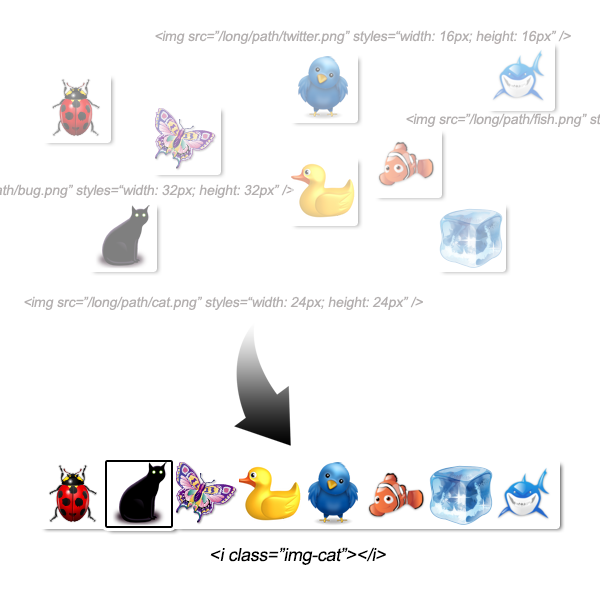
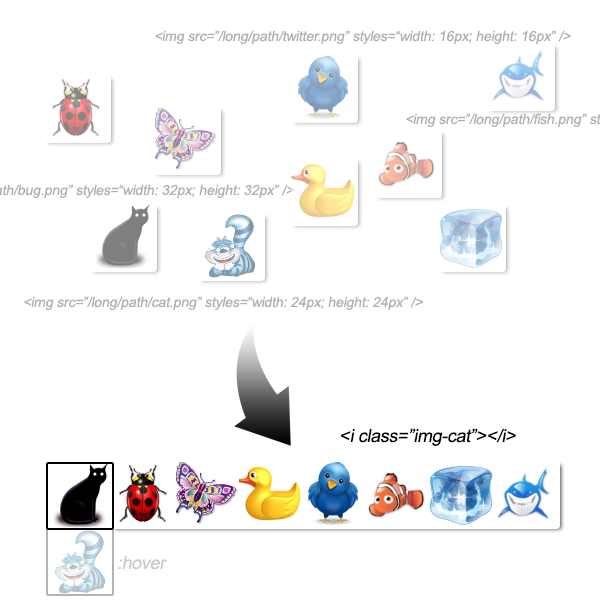
# Implemented auto hover support

diff --git a/lib/YiiBootstrapCssSprite.php b/lib/YiiBootstrapCssSprite.php
@@ -9,7 +9,7 @@
  * to creates CSS file call generate() method.
  *
  * @author Oleg Poludnenko <oleg@poludnenko.info>
- * @version 0.5.3
+ * @version 0.6.0
  */
 class YiiBootstrapCssSprite extends CApplicationComponent
 {
@@ -20,6 +20,11 @@ class YiiBootstrapCssSprite extends CApplicationComponent
     const ERROR_NO_SOURCE_IMAGES    = 'no-source-images';
     const ERROR_WRONG_IMAGE_FORMAT  = 'wrong-image-format';
     const ERROR_UNKNOWN_IMAGE_EXT   = 'unknown-image-ext';
+
+    /**
+     * Hover word (file suffix and CSS prefix)
+     */
+    const HOVER_WORD = 'hover';
 
     /**
      * Path to source images
@@ -49,7 +54,7 @@ class YiiBootstrapCssSprite extends CApplicationComponent
      * Namespace (prefix) for CSS classes
      * @var string
      */
-    public $cssNamespace = 'img-';
+    public $cssNamespace = 'img';
 
     /**
      * Result image URL in the CSS file
@@ -74,12 +79,12 @@ class YiiBootstrapCssSprite extends CApplicationComponent
         $this->_errors = array();
 
         // Get list of images
-        $fillImgList = function($dir) use(&$self, &$imgList, &$imgWidth, &$imgHeight, &$fillImgList) {
+        $fillImgList = function($dir) use(&$self, &$xOffset, &$imgList, &$imgWidth, &$imgHeight, &$fillImgList) {
             $imageList = glob($dir . DIRECTORY_SEPARATOR . '*.{' . $self->imgSourceExt . '}', GLOB_BRACE);
             foreach ($imageList as $imagePath) {
                 $imageSize = @getimagesize($imagePath);
                 if ($imageSize === false) {
-                    $self->addError(BootstrapCssSprite::ERROR_WRONG_IMAGE_FORMAT, $imagePath);
+                    $self->addError($self::ERROR_WRONG_IMAGE_FORMAT, $imagePath);
                     continue;
                 } else {
                     list($itemWidth, $itemHeight, $itemType) = $imageSize;
@@ -88,17 +93,22 @@ class YiiBootstrapCssSprite extends CApplicationComponent
                 if ($itemHeight > $imgHeight) {
                     $imgHeight = $itemHeight;
                 }
+
                 $imgList[$imagePath] = array(
-                    'width'  => $itemWidth,
-                    'height' => $itemHeight,
-                    'ext'    => image_type_to_extension($itemType, false),
+                    'width'     => $itemWidth,
+                    'height'    => $itemHeight,
+                    'x'         => $xOffset,
+                    'ext'       => image_type_to_extension($itemType, false),
                 );
+
+                $xOffset += $itemWidth;
             }
             $subdirList = glob($dir . DIRECTORY_SEPARATOR . '*', GLOB_ONLYDIR);
             foreach ($subdirList as $subdir) {
                 $fillImgList($subdir);
             }
         };
+        $xOffset = 0;
         $imgList = array();
         $imgWidth = $imgHeight = 0;
         $fillImgList($this->imgSourcePath);
@@ -117,8 +127,8 @@ class YiiBootstrapCssSprite extends CApplicationComponent
         $cssList = array();
         $cssList[] = array(
             'selectors' => array(
-                '[class^="' . $this->cssNamespace . '"]',
-                '[class*=" ' . $this->cssNamespace . '"]',
+                '[class^="' . $this->cssNamespace . '-"]',
+                '[class*=" ' . $this->cssNamespace . '-"]',
             ),
             'styles' => array(
                 'background-image'      => 'url("' . $this->cssImgUrl . '")',
@@ -133,7 +143,6 @@ class YiiBootstrapCssSprite extends CApplicationComponent
 
         // Copy all images, create CSS file and list of tags
         $tagList = array();
-        $destX = 0;
         foreach ($imgList as $imgPath => $imgData) {
 
             // Copy image
@@ -144,28 +153,56 @@ class YiiBootstrapCssSprite extends CApplicationComponent
             $src = $imgCreateFunc($imgPath);
             imagealphablending($src, true);
             imagesavealpha($src, true);
-            imagecopy($dest, $src, $destX, 0, 0, 0, $imgData['width'], $imgData['height']);
+            imagecopy($dest, $src, $imgData['x'], 0, 0, 0, $imgData['width'], $imgData['height']);
             imagedestroy($src);
 
-            // Append CSS
+            // Append CSS (if not a hover)
             $sourcePathLeng = mb_strlen($this->imgSourcePath);
-            $class = '.' . $this->cssNamespace . mb_substr($imgPath, $sourcePathLeng + 1);
+            $class = '.' . $this->cssNamespace . '-' . mb_substr($imgPath, $sourcePathLeng + 1);
             $class = mb_substr($class, 0, mb_strlen($class) - mb_strlen($imgData['ext']) - 1);
             $class = str_replace(DIRECTORY_SEPARATOR, '-', $class);
-            $cssList[] = array(
-                'selectors' => array($class),
-                'styles' => array(
-                    'background-position'   => '-' . $destX . 'px 0',
-                    'height'                => $imgData['height'] . 'px',
-                    'width'                 => $imgData['width'] . 'px',
-                ),
-            );
+            $isHover = (mb_substr($class, -mb_strlen('.' . static::HOVER_WORD)) === '.' . static::HOVER_WORD);
+            if (!$isHover) {
+                $cssList[] = array(
+                    'selectors' => array($class),
+                    'styles' => array(
+                        'background-position'   => '-' . $imgData['x'] . 'px 0',
+                        'height'                => $imgData['height'] . 'px',
+                        'width'                 => $imgData['width'] . 'px',
+                    ),
+                );
+            }
+
+            // Check if image has hover
+            if (!$isHover) {
+                $extPos = mb_strrpos($imgPath, $imgData['ext']);
+                if ($extPos !== false) {
+                    $hoverPath = substr_replace($imgPath, static::HOVER_WORD . '.' . $imgData['ext'], $extPos, strlen($imgData['ext']));
+                    $hasHover = isset($imgList[$hoverPath]);
+                } else {
+                    $hasHover = false;
+                }
+                if ($hasHover) {
+                    $hoverData = $imgList[$hoverPath];
+                    $cssList[] = array(
+                        'selectors' => array(
+                            "{$class}:hover",
+                            "{$class}.hover",
+                            ".hover-{$this->cssNamespace}:hover {$class}",
+                        ),
+                        'styles' => array(
+                            'background-position'   => '-' . $hoverData['x'] . 'px 0',
+                            'height'                => $hoverData['height'] . 'px',
+                            'width'                 => $hoverData['width'] . 'px',
+                        ),
+                    );
+                }
+            }
 
             // Append tag
-            $tagList[] = '<i class="' . mb_substr($class, 1) . '"></i>';
-
-            // Next position
-            $destX += $imgData['width'];
+            if (!$isHover) {
+                $tagList[] = '<i class="' . mb_substr($class, 1) . '"></i>';
+            }
         }
 
         // Save image to file

diff --git a/lib/BootstrapCssSprite.php b/lib/BootstrapCssSprite.php
@@ -9,7 +9,7 @@
  * to creates CSS file call generate() method.
  *
  * @author Oleg Poludnenko <oleg@poludnenko.info>
- * @version 0.5.3
+ * @version 0.6.0
  */
 class BootstrapCssSprite
 {
@@ -20,6 +20,11 @@ class BootstrapCssSprite
     const ERROR_NO_SOURCE_IMAGES    = 'no-source-images';
     const ERROR_WRONG_IMAGE_FORMAT  = 'wrong-image-format';
     const ERROR_UNKNOWN_IMAGE_EXT   = 'unknown-image-ext';
+
+    /**
+     * Hover word (file suffix and CSS prefix)
+     */
+    const HOVER_WORD = 'hover';
 
     /**
      * Path to source images
@@ -49,7 +54,7 @@ class BootstrapCssSprite
      * Namespace (prefix) for CSS classes
      * @var string
      */
-    public $cssNamespace = 'img-';
+    public $cssNamespace = 'img';
 
     /**
      * Result image URL in the CSS file
@@ -89,12 +94,12 @@ class BootstrapCssSprite
         $this->_errors = array();
 
         // Get list of images
-        $fillImgList = function($dir) use(&$self, &$imgList, &$imgWidth, &$imgHeight, &$fillImgList) {
+        $fillImgList = function($dir) use(&$self, &$xOffset, &$imgList, &$imgWidth, &$imgHeight, &$fillImgList) {
             $imageList = glob($dir . DIRECTORY_SEPARATOR . '*.{' . $self->imgSourceExt . '}', GLOB_BRACE);
             foreach ($imageList as $imagePath) {
                 $imageSize = @getimagesize($imagePath);
                 if ($imageSize === false) {
-                    $self->addError(BootstrapCssSprite::ERROR_WRONG_IMAGE_FORMAT, $imagePath);
+                    $self->addError($self::ERROR_WRONG_IMAGE_FORMAT, $imagePath);
                     continue;
                 } else {
                     list($itemWidth, $itemHeight, $itemType) = $imageSize;
@@ -103,17 +108,22 @@ class BootstrapCssSprite
                 if ($itemHeight > $imgHeight) {
                     $imgHeight = $itemHeight;
                 }
+
                 $imgList[$imagePath] = array(
-                    'width'  => $itemWidth,
-                    'height' => $itemHeight,
-                    'ext'    => image_type_to_extension($itemType, false),
+                    'width'     => $itemWidth,
+                    'height'    => $itemHeight,
+                    'x'         => $xOffset,
+                    'ext'       => image_type_to_extension($itemType, false),
                 );
+
+                $xOffset += $itemWidth;
             }
             $subdirList = glob($dir . DIRECTORY_SEPARATOR . '*', GLOB_ONLYDIR);
             foreach ($subdirList as $subdir) {
                 $fillImgList($subdir);
             }
         };
+        $xOffset = 0;
         $imgList = array();
         $imgWidth = $imgHeight = 0;
         $fillImgList($this->imgSourcePath);
@@ -132,8 +142,8 @@ class BootstrapCssSprite
         $cssList = array();
         $cssList[] = array(
             'selectors' => array(
-                '[class^="' . $this->cssNamespace . '"]',
-                '[class*=" ' . $this->cssNamespace . '"]',
+                '[class^="' . $this->cssNamespace . '-"]',
+                '[class*=" ' . $this->cssNamespace . '-"]',
             ),
             'styles' => array(
                 'background-image'      => 'url("' . $this->cssImgUrl . '")',
@@ -148,7 +158,6 @@ class BootstrapCssSprite
 
         // Copy all images, create CSS file and list of tags
         $tagList = array();
-        $destX = 0;
         foreach ($imgList as $imgPath => $imgData) {
 
             // Copy image
@@ -159,28 +168,56 @@ class BootstrapCssSprite
             $src = $imgCreateFunc($imgPath);
             imagealphablending($src, true);
             imagesavealpha($src, true);
-            imagecopy($dest, $src, $destX, 0, 0, 0, $imgData['width'], $imgData['height']);
+            imagecopy($dest, $src, $imgData['x'], 0, 0, 0, $imgData['width'], $imgData['height']);
             imagedestroy($src);
 
-            // Append CSS
+            // Append CSS (if not a hover)
             $sourcePathLeng = mb_strlen($this->imgSourcePath);
-            $class = '.' . $this->cssNamespace . mb_substr($imgPath, $sourcePathLeng + 1);
+            $class = '.' . $this->cssNamespace . '-' . mb_substr($imgPath, $sourcePathLeng + 1);
             $class = mb_substr($class, 0, mb_strlen($class) - mb_strlen($imgData['ext']) - 1);
             $class = str_replace(DIRECTORY_SEPARATOR, '-', $class);
-            $cssList[] = array(
-                'selectors' => array($class),
-                'styles' => array(
-                    'background-position'   => '-' . $destX . 'px 0',
-                    'height'                => $imgData['height'] . 'px',
-                    'width'                 => $imgData['width'] . 'px',
-                ),
-            );
+            $isHover = (mb_substr($class, -mb_strlen('.' . static::HOVER_WORD)) === '.' . static::HOVER_WORD);
+            if (!$isHover) {
+                $cssList[] = array(
+                    'selectors' => array($class),
+                    'styles' => array(
+                        'background-position'   => '-' . $imgData['x'] . 'px 0',
+                        'height'                => $imgData['height'] . 'px',
+                        'width'                 => $imgData['width'] . 'px',
+                    ),
+                );
+            }
+
+            // Check if image has hover
+            if (!$isHover) {
+                $extPos = mb_strrpos($imgPath, $imgData['ext']);
+                if ($extPos !== false) {
+                    $hoverPath = substr_replace($imgPath, static::HOVER_WORD . '.' . $imgData['ext'], $extPos, strlen($imgData['ext']));
+                    $hasHover = isset($imgList[$hoverPath]);
+                } else {
+                    $hasHover = false;
+                }
+                if ($hasHover) {
+                    $hoverData = $imgList[$hoverPath];
+                    $cssList[] = array(
+                        'selectors' => array(
+                            "{$class}:hover",
+                            "{$class}.hover",
+                            ".hover-{$this->cssNamespace}:hover {$class}",
+                        ),
+                        'styles' => array(
+                            'background-position'   => '-' . $hoverData['x'] . 'px 0',
+                            'height'                => $hoverData['height'] . 'px',
+                            'width'                 => $hoverData['width'] . 'px',
+                        ),
+                    );
+                }
+            }
 
             // Append tag
-            $tagList[] = '<i class="' . mb_substr($class, 1) . '"></i>';
-
-            // Next position
-            $destX += $imgData['width'];
+            if (!$isHover) {
+                $tagList[] = '<i class="' . mb_substr($class, 1) . '"></i>';
+            }
         }
 
         // Save image to file

diff --git a/example/sprite.example.php b/example/sprite.example.php
@@ -7,7 +7,7 @@ $sprite = new BootstrapCssSprite(array(
     'imgSourceExt'  => 'jpg,jpeg,gif,png',
     'imgDestPath'   => __DIR__ . '/images/sprite.png',
     'cssPath'       => __DIR__ . '/css/sprite.css',
-    'cssNamespace'  => 'img-',
+    'cssNamespace'  => 'img',
     'cssImgUrl'     => '../images/sprite.png',
 ));
 $tagList = $sprite->generate();
@@ -28,9 +28,10 @@ $tagList = $sprite->generate();
         <?php else: ?>
             <h2>Success!</h2>
             <?php foreach ($tagList as $tag): ?>
-                <?php echo $tag; ?>
-                <?php echo htmlentities($tag); ?>
-                <br />
+                <div class="hover-img">
+                    <?php echo $tag; ?>
+                    <?php echo htmlentities($tag); ?>
+                </div>
             <?php endforeach; ?>
         <?php endif; ?>
     </body>

diff --git a/README.md b/README.md
@@ -1,7 +1,7 @@
 ## Introduction
-<b>Bootstrap CSS Sprite</b> is a PHP library, which provides displaying of multiple images as a signle sprite in a Twitter Bootstrap style. 
-E.g. you have a set of images one of which is named <b>kitty.png</b>. 
-To display this image you can just use tag <b>&lt;i&gt;</b> with CSS class <b>img-kitty</b> as Twitter Bootstrap do: <code>&lt;i class="img-kitty"&gt;&lt;/i&gt;</code>.
+<b>Bootstrap CSS Sprite</b> is a PHP library, which provides displaying of multiple images as a signle sprite in a Twitter Bootstrap style.
+E.g. you have a set of images one of which is named <b>cat.png</b>.
+To display this image you can just use tag <b>&lt;i&gt;</b> with CSS class <b>img-cat</b> as Twitter Bootstrap do: <code>&lt;i class="img-cat"&gt;&lt;/i&gt;</code>.
 A nice bonus: the image's height and width are set automatically in CSS file.
 
 <p align="center">
@@ -13,7 +13,7 @@ A nice bonus: the image's height and width are set automatically in CSS file.
     <li>One image file instead one multiple: one request to server and less traffic.</li>
     <li>Image hover first time without blinking and "jumping".</li>
     <li>No need to define size for each image in HTML templates - library will do it for you in generated CSS file.</li>
-    <li>Less HTML code: <code>&lt;i class="img-kitty"&gt;&lt;/i&gt;</code> instead of <pre><code>&lt;img src="&lt;?=$this->theme->baseUrl?&gt;/images/kitty.png" style="width: 64px; height: 64px;" /&gt;</code></pre>
+    <li>Less HTML code: <code>&lt;i class="img-cat"&gt;&lt;/i&gt;</code> instead of <pre><code>&lt;img src="&lt;?=$this->theme->baseUrl?&gt;/images/cat.png" style="width: 64px; height: 64px;" /&gt;</code></pre>
     It really saves your time!</li>
 </ul>
 
@@ -27,7 +27,6 @@ The CSS file contains classes for all merged files. These classes define source 
     'imgSourceExt'  => 'jpg,jpeg,gif,png',
     'imgDestPath'   => './images/sprite.png',
     'cssPath'       => './css/sprite.css',
-    'cssNamespace'  => 'img-',
     'cssImgUrl'     => '../images/sprite.png',
 ));
 $sprite->generate();
@@ -42,12 +41,16 @@ It will look the same way for Yii component. Just copy <b>YiiBootstrapCssSprite.
         'imgSourceExt'  => 'jpg,jpeg,gif,png',
         'imgDestPath'   => '/path/to/images/sprite.png',
         'cssPath'       => '/path/to/css/sprite.css',
-        'cssNamespace'  => 'img-',
         'cssImgUrl'     => '/path/to/images/sprite.png',
     ),
     ...
 ));
 </code></pre>
+
+## :hover
+If you want your cat picture to be changed on mouse hover, you just need to put <b>cat.hover.png</b> image file near <b>cat.png</b>.
+In case when you need to change picture on mouse hover over parent element (not picture itself), you should add <b>hover-img</b> CSS-class to the element: <code>&lt;button class="btn hover-img"&gt;&lt;i class="img-cat"&gt;&lt;/i&gt; My Cat&lt;/button&gt;</code>.
+Also you can trigger hover event manually by adding <b>hover</b> CSS-class to your picture: <code>$('.img-cat').addClass('hover')</code>.
 
 ## Contributors
 Oleg Poludnenko <oleg@poludnenko.info>
